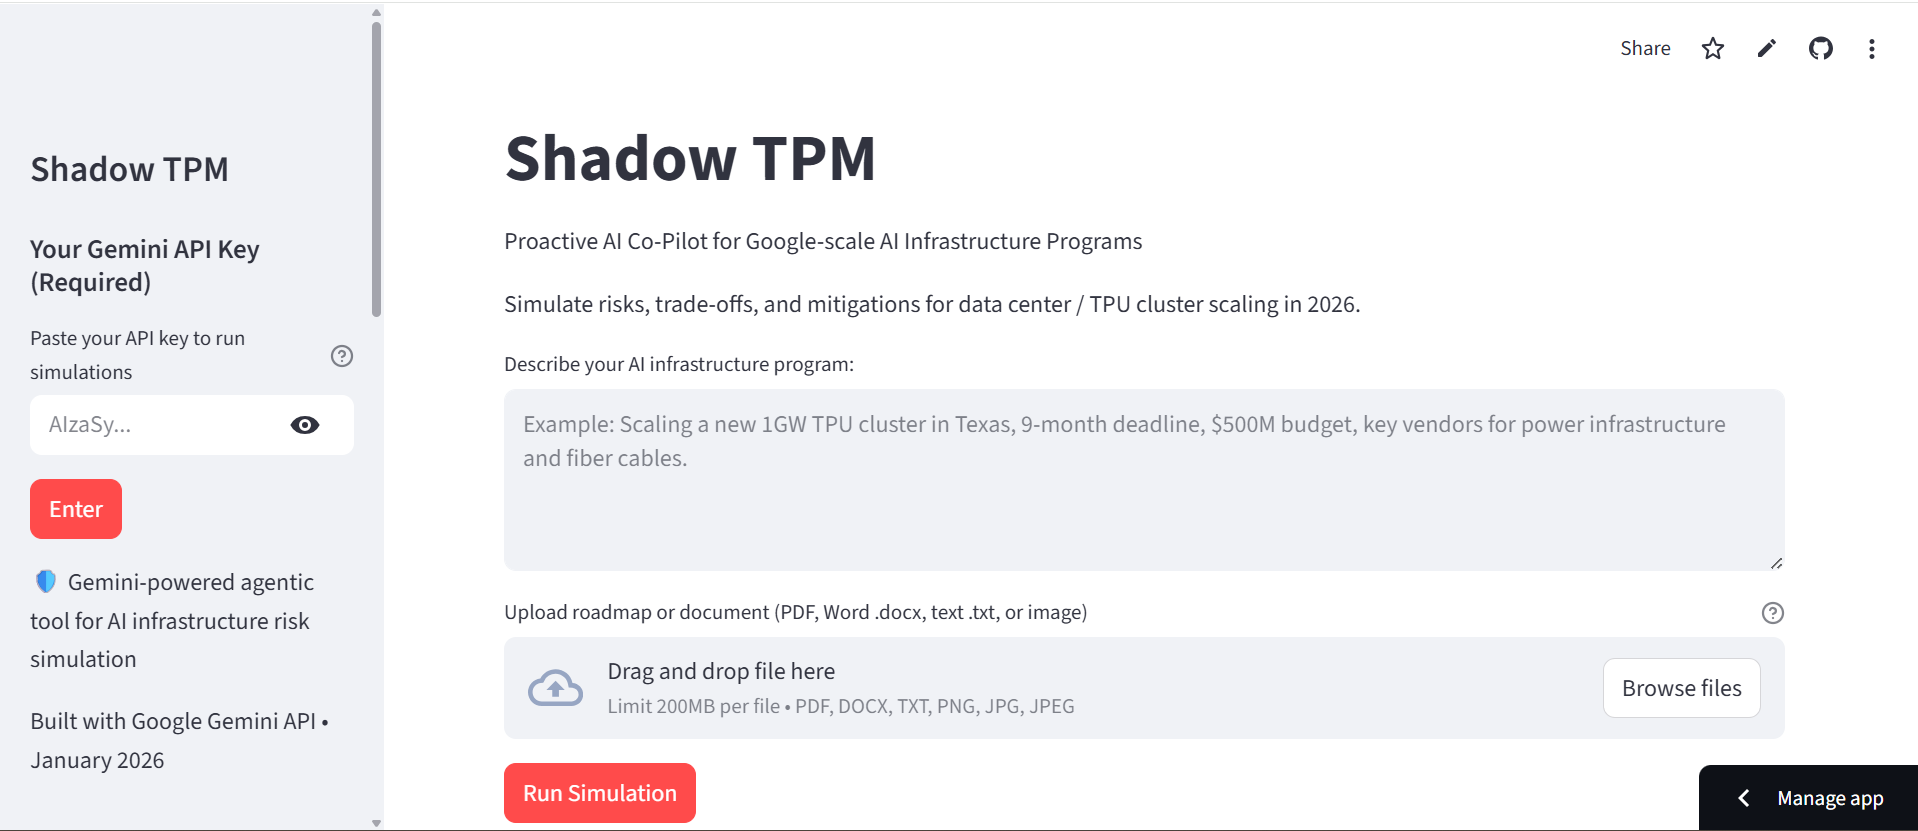
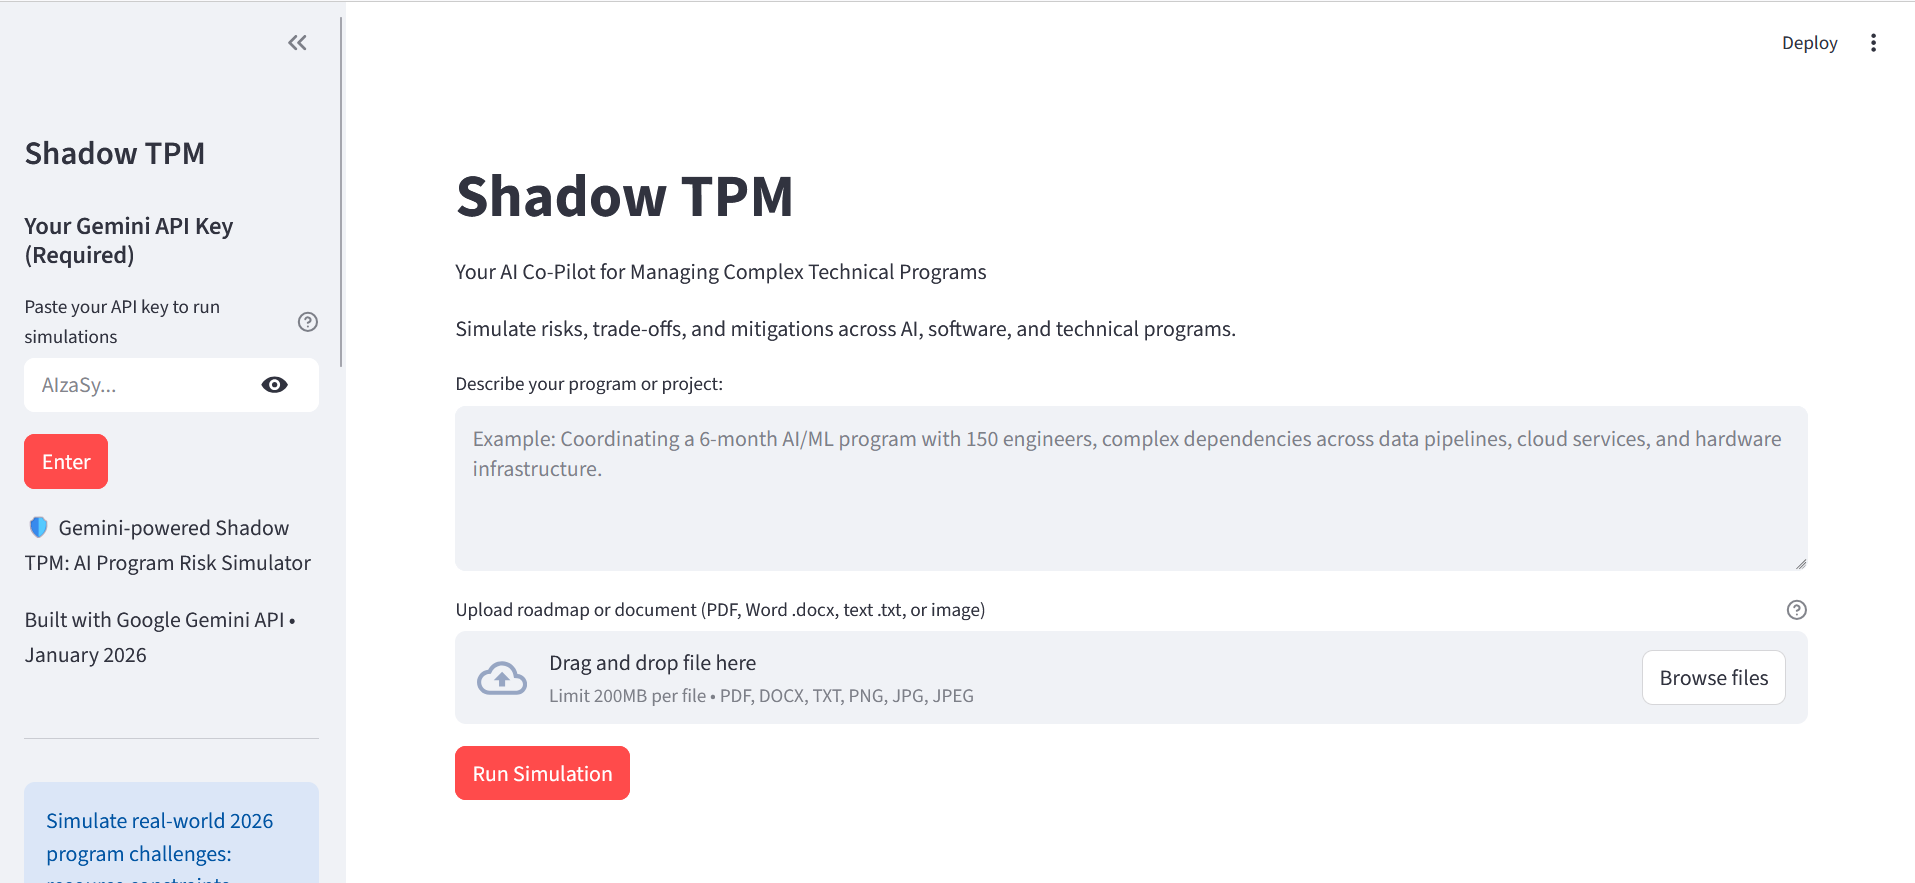
Enhance charts aesthetics and UI polish

diff --git a/app.py b/app.py
@@ -13,17 +13,15 @@ st.set_page_config(
 st.sidebar.title("Shadow TPM")
 
 # ──────────────────────────────────────────────
-# Mandatory: User must enter their own Gemini API key
 st.sidebar.subheader("Your Gemini API Key (Required)")
 api_key_input = st.sidebar.text_input(
     "Paste your API key to run simulations",
-    type="password",  # Hides the key as dots
+    type="password",
     placeholder="AIzaSy...",
-    key="api_key_input",  # Unique key to avoid conflicts
+    key="api_key_input",
     help="This key is only used in your browser session — not stored. Create a free one at https://aistudio.google.com/app/apikey"
 )
 
-# NEW: Enter button
 if st.sidebar.button("Enter", type="primary", key="enter_key_button"):
     if not api_key_input.strip():
         st.sidebar.error("Please paste a valid API key.")
@@ -32,10 +30,10 @@ if st.sidebar.button("Enter", type="primary", key="enter_key_button"):
         st.sidebar.success("API key accepted — ready to run simulations!")
 # ──────────────────────────────────────────────
 
-st.sidebar.markdown("🛡 Gemini-powered agentic tool for AI infrastructure risk simulation")
+st.sidebar.markdown("🛡 Gemini-powered Shadow TPM: AI Program Risk Simulator")
 st.sidebar.markdown("Built with Google Gemini API • January 2026")
 st.sidebar.markdown("---")
-st.sidebar.info("Simulate real-world 2026 challenges: power shortages, vendor delays, gigawatt-scale compute constraints.")
+st.sidebar.info("Simulate real-world 2026 program challenges: resource constraints, technical dependencies, schedule risks, and trade-offs.")
 st.sidebar.markdown("### Try These Example Prompts:")
 st.sidebar.markdown("- **Software/ML:** Developing Gemini v3.0 model, 6-month launch, 150 engineers, dependencies on data pipeline and TPU v6.")
 st.sidebar.markdown("- **Tech Debt:** Reducing technical debt in Cloud ML serving platform, 9-month program, 40% legacy code migration.")
@@ -43,14 +41,13 @@ st.sidebar.markdown("- **Compliance:** Managing EU AI Act compliance for generat
 st.sidebar.markdown("- **Infra:** Scaling 1GW TPU cluster in Texas, 9-month deadline, $500M budget, power and fiber vendors.")
 
 st.title("Shadow TPM")
-st.markdown("Proactive AI Co-Pilot for Google-scale AI Infrastructure Programs")
-st.markdown("Simulate risks, trade-offs, and mitigations for data center / TPU cluster scaling in 2026.")
+st.markdown("Your AI Co-Pilot for Managing Complex Technical Programs")
+st.markdown("Simulate risks, trade-offs, and mitigations across AI, software, and technical programs.")
 
-# Input section
 project_input = st.text_area(
-    "Describe your AI infrastructure program:",
+    "Describe your program or project:",
     height=150,
-    placeholder="Example: Scaling a new 1GW TPU cluster in Texas, 9-month deadline, $500M budget, key vendors for power infrastructure and fiber cables."
+    placeholder="Example: Coordinating a 6-month AI/ML program with 150 engineers, complex dependencies across data pipelines, cloud services, and hardware infrastructure."
 )
 
 uploaded_file = st.file_uploader(
@@ -76,7 +73,7 @@ if st.button("Run Simulation", type="primary"):
         else:
             st.success("Simulation complete! 🚀 Risks & mitigations ready.")
 
-            # Display Summary
+            # Summary
             st.subheader("Summary")
             st.write(result["summary"])
 
@@ -84,11 +81,10 @@ if st.button("Run Simulation", type="primary"):
             st.subheader("Predicted Risks")
             risks = result.get("risks", [])
             if risks:
-                # Table
                 df_risks = pd.DataFrame(risks)
                 st.dataframe(df_risks, use_container_width=True)
 
-                # Simple bar chart for risk probabilities
+                # Risk Probability Bar Chart (aesthetics improved)
                 df_prob = df_risks.copy()
                 df_prob['probability_num'] = df_prob['probability'].str.rstrip('%').astype(float)
                 fig_prob = px.bar(
@@ -98,24 +94,30 @@ if st.button("Run Simulation", type="primary"):
                     color='impact',
                     title="Risk Probabilities (%) by Impact",
                     labels={'probability_num': 'Probability (%)', 'risk': 'Risk'},
-                    height=450,
+                    height=500,
                     color_discrete_map={
-                        'High': '#FF4C4C',
-                        'Medium': '#FFA500',
-                        'Low': '#4CAF50'
-                    }
+                        'High': '#E74C3C',   # Rich red
+                        'Medium': '#F39C12', # Amber
+                        'Low': '#2ECC71'     # Green
+                    },
+                    text='probability_num'
                 )
-                fig_prob.update_traces(hovertemplate='<b>%{x}</b><br>Probability: %{y}%')
+                fig_prob.update_traces(hovertemplate='<b>%{x}</b><br>Probability: %{y}%', texttemplate='%{text:.1f}%', textposition='outside')
                 fig_prob.update_layout(
                     xaxis_tickangle=-45,
                     xaxis_title="",
                     yaxis_title="Probability (%)",
-                    showlegend=True,
-                    margin=dict(b=100)
+                    font=dict(family="Arial, sans-serif", size=13),
+                    uniformtext_minsize=12,
+                    uniformtext_mode='hide',
+                    plot_bgcolor='rgba(0,0,0,0)',
+                    paper_bgcolor='rgba(0,0,0,0)',
+                    margin=dict(b=120),
+                    showlegend=True
                 )
                 st.plotly_chart(fig_prob, use_container_width=True)
 
-                # Risk Heatmap
+                # Risk Heatmap (aesthetics improved)
                 df_pivot = df_prob.pivot_table(
                     index='risk',
                     columns='impact',
@@ -125,9 +127,9 @@ if st.button("Run Simulation", type="primary"):
 
                 fig_heat = px.imshow(
                     df_pivot,
-                    title="Risk Heatmap (Exact Probability by Impact)",
-                    color_continuous_scale="Reds",
-                    height=400,
+                    title="Risk Heatmap (Probability by Impact)",
+                    color_continuous_scale=px.colors.sequential.Reds,
+                    height=450,
                     labels=dict(x="Impact Level", y="Risk", color="Probability (%)"),
                     text_auto=True,
                     aspect="auto"
@@ -135,22 +137,30 @@ if st.button("Run Simulation", type="primary"):
                 fig_heat.update_layout(
                     xaxis_title="Impact Level",
                     yaxis_title="Risk",
+                    xaxis_tickangle=-30,
+                    font=dict(family="Arial, sans-serif", size=12),
+                    plot_bgcolor='rgba(0,0,0,0)',
+                    paper_bgcolor='rgba(0,0,0,0)',
                     coloraxis_colorbar_title="Probability (%)",
-                    xaxis_tickangle=-45
                 )
                 st.plotly_chart(fig_heat, use_container_width=True)
 
-                # Impact Pie Chart
+                # Impact Pie Chart (aesthetics improved)
                 impact_counts = df_risks['impact'].value_counts()
+                # Ensure the categories are in the correct order
+                impact_order = ["High", "Medium", "Low"]
+                impact_counts = impact_counts.reindex(impact_order, fill_value=0)
+
                 fig_pie = px.pie(
                     values=impact_counts.values,
                     names=impact_counts.index,
                     title="Risk Impact Distribution",
-                    hole=0.3,
-                    color_discrete_sequence=["#FF4C4C", "#FFA500", "#4CAF50"],
-                    height=400
+                    hole=0.4,
+                    color_discrete_map={"High": "#E74C3C", "Medium": "#F39C12", "Low": "#2ECC71"},
+                    height=420
                 )
-                fig_pie.update_traces(textposition='inside', textinfo='percent+label')
+                fig_pie.update_traces(textposition='inside', textinfo='percent+label', pull=[0.05,0.02,0.02])
+                fig_pie.update_layout(font=dict(family="Arial, sans-serif", size=13), legend_title_text="Impact Level")
                 st.plotly_chart(fig_pie, use_container_width=True)
             else:
                 st.info("No risks detected.")
@@ -209,7 +219,7 @@ if st.button("Run Simulation", type="primary"):
             else:
                 st.info("No trade-off metrics available yet.")
 
-            # Rest of your sections (Communication Artifacts, Ethics, Talent, Download) remain unchanged
+            # Communication Artifacts
             st.subheader("Communication Artifacts")
             comms = result.get("comms", {})
             if comms:
@@ -217,7 +227,7 @@ if st.button("Run Simulation", type="primary"):
                     email = comms.get("email_draft", {})
                     st.markdown(f"**Subject:** {email.get('subject', 'N/A')}")
                     st.markdown(f"**Greeting:** {email.get('greeting', 'N/A')}")
-                    st.text_area("Body:", value=email.get('body', 'N/A'), height=200, key="email_body")
+                    st.text_area("Body:", value=email.get("body", "N/A"), height=200, key="email_body")
                     st.markdown(f"**Closing:** {email.get('closing', 'N/A')}")
 
                 st.markdown("**Talking Points for Exec Meeting**")
@@ -240,6 +250,7 @@ if st.button("Run Simulation", type="primary"):
             else:
                 st.info("No communication artifacts generated (check if comms agent is enabled).")
 
+            # Ethics
             st.subheader("Ethics & Sustainability Review")
             ethics = result.get("ethics", {})
             if ethics:
@@ -258,6 +269,7 @@ if st.button("Run Simulation", type="primary"):
             else:
                 st.info("Ethics check not available.")
 
+            # Talent
             st.subheader("Talent & Resource Risk Simulation")
             talent = result.get("talent", {})
             if talent:

diff --git a/agents.py b/agents.py
@@ -11,30 +11,34 @@ model = genai.GenerativeModel(
     generation_config=generation_config
 )
 
+# ──────────────────────────────────────────────
 def risk_forecaster(project_input, uploaded_file=None):
 
     prompt = f"""
     You are a versatile Risk Forecaster Agent for Google-scale technical programs in January 2026.
-    Handle both software/ML (model training, launches, tech debt, safety, scaling) and infrastructure (data centers, power, vendors, TPU clusters).
+    Handle software/ML, infrastructure, compliance, and talent/resource risks.
     Input: {project_input}
     If an uploaded file is provided, analyze it (e.g., extract timelines from PDF, dependencies from image) to inform risks.
-    Detect program type and focus on relevant risks (e.g., training delays for software; grid delays for infra).
-    Predict top 3-5 risks with probability, impact, and explanation.
-    Output ONLY valid JSON: {{"risks": [{{"risk": "...", "probability": "XX%", "impact": "High/Medium/Low", "explanation": "..."}}]}}
+
+    Detect program type and focus on relevant risks:
+    - Software/ML: training delays, deployment issues, model performance, technical debt
+    - Infrastructure: grid failures, vendor delays, capacity constraints
+    - Talent/Team: engineer churn, skill gaps, burnout
+    - Compliance/Safety: regulatory, sustainability, safety audits
+
+    Predict top 8-10 risks with probability, impact (High/Medium/Low), and explanation.
+    Output ONLY valid JSON: {{"risks": [{{"risk": "...", "probability": "XX%", "impact": "High/Medium/Low", "explanation": "..."}}]]}}
     """
 
-    # Handle multimodal file upload
     content = [prompt]
     if uploaded_file is not None:
         try:
             file_bytes = uploaded_file.read()
             mime_type = uploaded_file.type
             
-            # Safety: Gemini has ~20MB practical limit
             if len(file_bytes) > 20 * 1024 * 1024:
                 return {"error": "Uploaded file is too large (over 20MB). Please use a smaller file."}
             
-            # Supported file types
             supported_mimes = {
                 'application/pdf': 'PDF document',
                 'application/vnd.openxmlformats-officedocument.wordprocessingml.document': 'Word document (.docx)',
@@ -59,14 +63,18 @@ def risk_forecaster(project_input, uploaded_file=None):
         print("JSON Parse Error:", e, "\nRaw response:", response.text)
         return {"error": "Failed to parse risks", "raw": response.text}
 
+# ──────────────────────────────────────────────
 def trade_off_optimizer(risks_data):
     prompt = f"""
     You are a Trade-Off Optimizer Agent for technical programs.
     Input risks: {json.dumps(risks_data)}
-    Suggest 2-3 mitigations per risk with trade-offs:
-    - For software/ML: engineering effort, time, quality/safety.
-    - For infra: cost, time, risk reduction.
-    Output ONLY valid JSON: {{"tradeoffs": [{{"risk": "...", "options": [{{"option": "...", "effort_impact": "...", "time_impact": "...", "quality_risk_reduction": "XX%"}}]}}]}}
+
+    Suggest 3-4 mitigations per risk with trade-offs:
+    - For software/ML: engineering effort, time, quality/safety
+    - For infra: cost, time, risk reduction
+    Include notes if a mitigation reduces multiple risks simultaneously.
+    
+    Output ONLY valid JSON: {{"tradeoffs": [{{"risk": "...", "options": [{{"option": "...", "effort_impact": "...", "time_impact": "...", "quality_risk_reduction": "XX%", "multi_risk_note": "..."}}]}}]]}}
     """
     response = model.generate_content(prompt)
     try:
@@ -76,10 +84,12 @@ def trade_off_optimizer(risks_data):
         print("JSON Parse Error:", e, "\nRaw response:", response.text)
         return {"error": "Failed to parse trade-offs", "raw": response.text}
 
+# ──────────────────────────────────────────────
 def comms_influencer(risks_data, tradeoffs_data):
     prompt = f"""
     You are a senior TPM Comms/Influencer Agent at Google.
-    Focus on software/ML programs: model launches, platform upgrades, compliance, cross-team coordination.
+    Focus on software/ML, infrastructure, compliance, and cross-team coordination.
+
     Input risks: {json.dumps(risks_data)}
     Input trade-offs: {json.dumps(tradeoffs_data)}
     
@@ -87,7 +97,7 @@ def comms_influencer(risks_data, tradeoffs_data):
     1. Email draft to stakeholders (Subject + Greeting + Body + Closing)
     2. 3-4 bullet talking points for exec update
     3. Simple 1-slide outline (title + 3 bullets)
-    
+
     Output ONLY valid JSON: {{
         "email_draft": {{ "subject": "...", "greeting": "...", "body": "...", "closing": "..." }},
         "talking_points": ["...", "..."],
@@ -100,6 +110,7 @@ def comms_influencer(risks_data, tradeoffs_data):
     except:
         return {"error": "Failed to generate comms"}
 
+# ──────────────────────────────────────────────
 def ethics_checker(project_input, risks_data):
     prompt = f"""
     You are an Ethics & Sustainability Agent for Google technical programs.
@@ -120,6 +131,7 @@ def ethics_checker(project_input, risks_data):
     except:
         return {"error": "Failed to check ethics"}
 
+# ──────────────────────────────────────────────
 def talent_risk_simulator(project_input, risks_data):
     prompt = f"""
     You are a Talent Risk Simulator Agent for technical programs.
@@ -140,12 +152,11 @@ def talent_risk_simulator(project_input, risks_data):
     except:
         return {"error": "Failed to simulate talent risks"}
 
+# ──────────────────────────────────────────────
 def orchestrator(project_input, uploaded_file=None, user_api_key=""):
-    # Require user-provided API key
     if not user_api_key.strip():
         return {"error": "No Gemini API key provided. Please enter your own key in the sidebar to run simulations. Get a free key at https://aistudio.google.com/app/apikey"}
 
-    # Configure Gemini with the user-provided key
     genai.configure(api_key=user_api_key)
 
     risks = risk_forecaster(project_input, uploaded_file)
@@ -169,7 +180,7 @@ def orchestrator(project_input, uploaded_file=None, user_api_key=""):
         return talent
 
     final_output = {
-        "summary": "Simulation complete for your AI infra program.",
+        "summary": "Simulation complete for your AI program.",
         "risks": risks.get("risks", []),
         "tradeoffs": tradeoffs.get("tradeoffs", []),
         "comms": comms,
